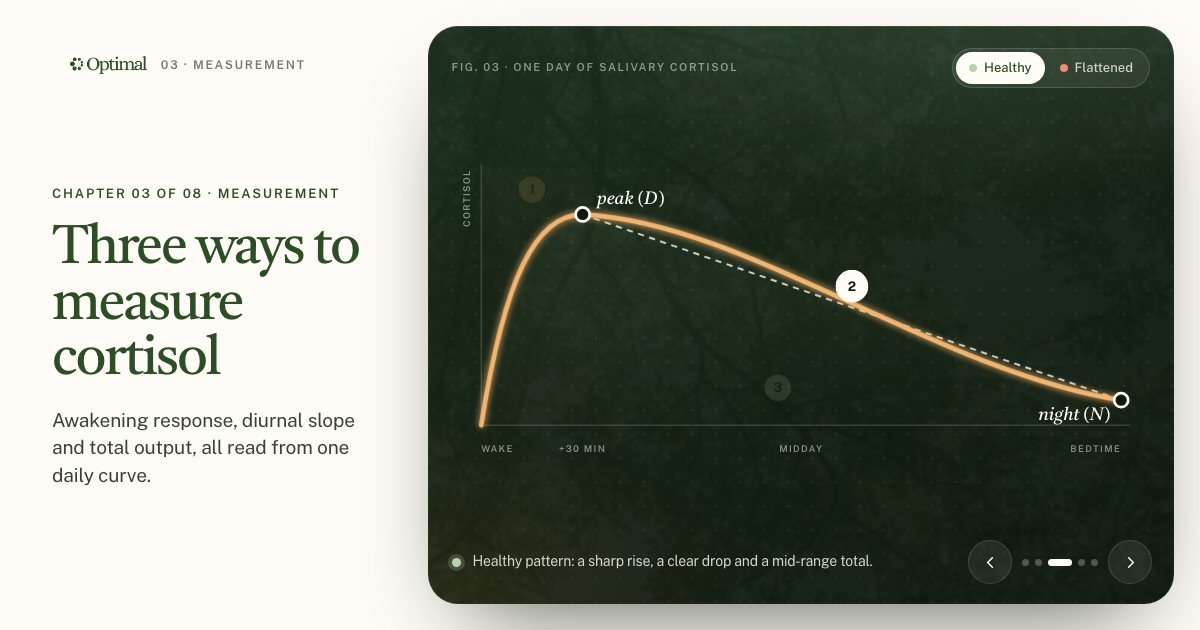
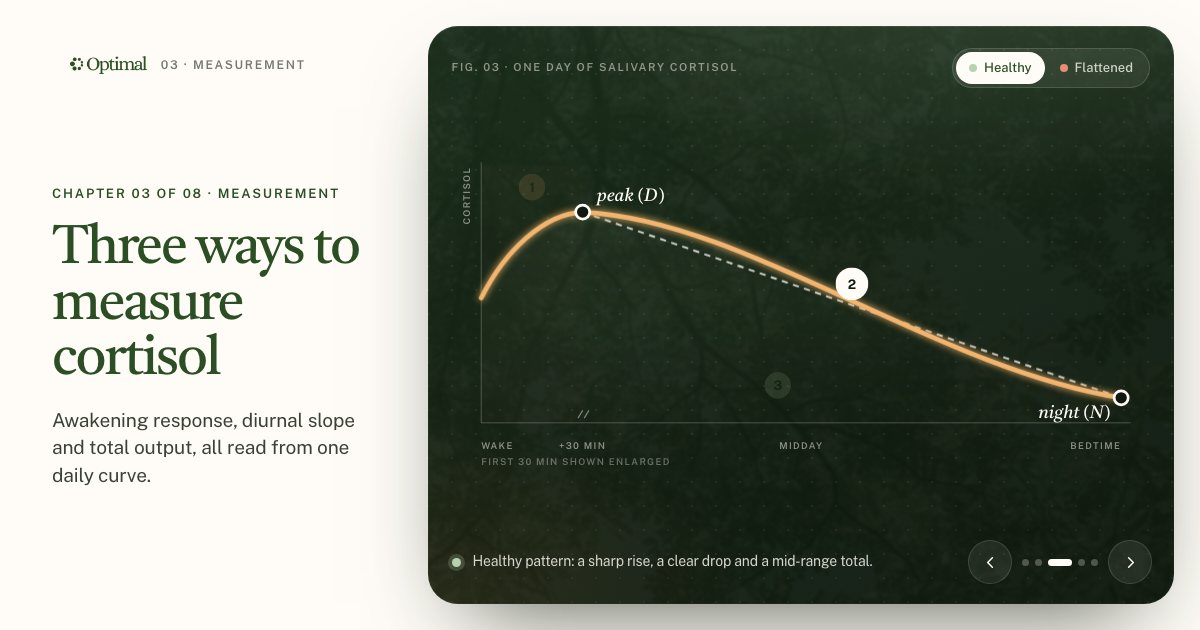
Fix clinical content errors flagged in review
- Ch01: cortisol decreases peripheral glucose uptake (was shown as an
  unqualified normal action); immune effect corrected to lymphocytes
  and eosinophils falling while neutrophils rise (was "leukocytes")
- Ch02/Ch03: daily cortisol curves now start at a realistic waking level
  and peak ~30-45 min after waking; Ch03 marks the enlarged first 30
  minutes on its axis; area fill closes along the baseline
- Ch07 note 6: insulin resistance raises free testosterone in women
  (PCOS pattern) but tends to lower testosterone in men
- Ch07 note 9: reworded away from "cortisol depletes progesterone";
  stress lowers progesterone mainly by disrupting ovulation
- Landing previews and exam-room mockup redrawn to match; glossary adds
  "lymphocytes"; OG images for ch02/ch03 regenerated
- IMAGE_PROMPTS.md: full, self-contained ChatGPT prompts per chapter

Changed region(s): [[0.37, 0.3016, 0.9558, 0.754], [0.37, 0.2714, 0.4008, 0.3619]]

diff --git a/03-measuring-cortisol.html b/03-measuring-cortisol.html
@@ -68,21 +68,23 @@
         </div>
       </div>
       <div class="stage-canvas">
-        <svg viewBox="0 0 900 410" role="img" aria-label="Daily salivary cortisol curve with the awakening response, diurnal slope and area under the curve marked.">
+        <svg viewBox="0 0 900 416" role="img" aria-label="Daily salivary cortisol curve with the awakening response, diurnal slope and area under the curve marked.">
           <defs>
             <linearGradient id="auc" x1="0" x2="0" y1="0" y2="1"><stop offset="0" stop-color="#B7D3AE" stop-opacity=".42"/><stop offset="1" stop-color="#B7D3AE" stop-opacity=".03"/></linearGradient>
             <filter id="glow" x="-20%" y="-40%" width="140%" height="180%"><feGaussianBlur stdDeviation="5" result="b"/><feMerge><feMergeNode in="b"/><feMergeNode in="SourceGraphic"/></feMerge></filter>
           </defs>
           <g class="lk" data-k="car"><rect x="40" y="20" width="130" height="330" fill="#F2B46E" opacity=".1"/><line x1="170" y1="20" x2="170" y2="350" stroke="#F2B46E" stroke-opacity=".35" stroke-dasharray="2 5"/></g>
-          <g class="fx-fade" style="--d:1.2s"><path class="lk" data-k="auc" id="aucFill" fill="url(#auc)" d="M 40 350 C 70 160, 110 80, 170 80 C 380 90, 620 280, 860 318 L 860 350 Z"/></g>
+          <g class="fx-fade" style="--d:1.2s"><path class="lk" data-k="auc" id="aucFill" fill="url(#auc)" d="M 40 190 C 70 130, 120 82, 170 80 C 380 90, 620 280, 860 318 L 860 350 L 40 350 Z"/></g>
           <line class="ax" x1="40" y1="16" x2="40" y2="350"/>
           <line class="ax" x1="40" y1="350" x2="872" y2="350"/>
           <text class="t-lab" x="26" y="22" transform="rotate(-90 26 22)" text-anchor="end">CORTISOL</text>
+          <path d="M 164 344 l 6 -10 M 172 344 l 6 -10" stroke="rgba(255,252,247,.45)" stroke-width="1.5" fill="none"/>
+          <text class="t-lab" x="40" y="404" font-size="10" fill-opacity=".7">FIRST 30 MIN SHOWN ENLARGED</text>
           <g class="t-lab"><text x="40" y="384">WAKE</text><text x="170" y="384" text-anchor="middle">+30 MIN</text><text x="450" y="384" text-anchor="middle">MIDDAY</text><text x="860" y="384" text-anchor="end">BEDTIME</text></g>
-          <path class="ghost" id="ghost" d="M 40 350 C 70 160, 110 80, 170 80 C 380 90, 620 280, 860 318" fill="none" stroke="#F2B46E" stroke-opacity=".5" stroke-width="2.5" stroke-dasharray="4 7" opacity="0"/>
+          <path class="ghost" id="ghost" d="M 40 190 C 70 130, 120 82, 170 80 C 380 90, 620 280, 860 318" fill="none" stroke="#F2B46E" stroke-opacity=".5" stroke-width="2.5" stroke-dasharray="4 7" opacity="0"/>
           <g class="fx-fade" style="--d:1.5s"><line class="lk" data-k="slope" id="slope" x1="170" y1="80" x2="860" y2="318" stroke="#FFFCF7" stroke-opacity=".8" stroke-width="2.5" stroke-dasharray="8 7"/></g>
-          <path class="draw" id="curve" pathLength="1" style="--d:.3s;--dur:1.5s" d="M 40 350 C 70 160, 110 80, 170 80 C 380 90, 620 280, 860 318" fill="none" stroke="#F2B46E" stroke-width="6" stroke-linecap="round" filter="url(#glow)"/>
-          <path class="emph" data-k="car" id="rise" d="M 40 350 C 70 160, 110 80, 170 80" fill="none" stroke="#FFD29C" stroke-width="10" stroke-linecap="round" filter="url(#glow)"/>
+          <path class="draw" id="curve" pathLength="1" style="--d:.3s;--dur:1.5s" d="M 40 190 C 70 130, 120 82, 170 80 C 380 90, 620 280, 860 318" fill="none" stroke="#F2B46E" stroke-width="6" stroke-linecap="round" filter="url(#glow)"/>
+          <path class="emph" data-k="car" id="rise" d="M 40 190 C 70 130, 120 82, 170 80" fill="none" stroke="#FFD29C" stroke-width="10" stroke-linecap="round" filter="url(#glow)"/>
           <g class="fx-fade" style="--d:1.7s">
             <g class="lk" data-k="slope">
               <circle id="dPt" cx="170" cy="80" r="9" fill="#10190F" stroke="#FFFCF7" stroke-width="3.5"/>
@@ -156,11 +158,11 @@
 <script>
 (function () {
   var P = {
-    healthy: { curve: 'M 40 350 C 70 160, 110 80, 170 80 C 380 90, 620 280, 860 318', rise: 'M 40 350 C 70 160, 110 80, 170 80',
+    healthy: { curve: 'M 40 190 C 70 130, 120 82, 170 80 C 380 90, 620 280, 860 318', rise: 'M 40 190 C 70 130, 120 82, 170 80',
                d: [170, 80], n: [860, 318], b2: [515, 172], c: '#B7D3AE',
                note: 'Healthy pattern: a sharp rise, a clear drop and a mid-range total.' },
-    flat:    { curve: 'M 40 350 C 60 250, 100 200, 170 190 C 380 196, 620 244, 860 266', rise: 'M 40 350 C 60 250, 100 200, 170 190',
-               d: [170, 190], n: [860, 266], b2: [515, 205], c: '#EE8B75',
+    flat:    { curve: 'M 40 240 C 70 232, 120 224, 170 222 C 380 226, 620 250, 860 268', rise: 'M 40 240 C 70 232, 120 224, 170 222',
+               d: [170, 222], n: [860, 268], b2: [515, 222], c: '#EE8B75',
                note: 'Flattened pattern: a blunted rise, little drop and a low total.' }
   };
   var $ = function (id) { return document.getElementById(id); };
@@ -172,7 +174,7 @@
     state = k;
     var S = P[k], dur = first || instant ? 0 : 1000;
     if (!first) { curve.classList.remove('draw'); curve.style.strokeDasharray = 'none'; }
-    HX.morph(curve, S.curve, dur); HX.morph($('rise'), S.rise, dur); HX.morph($('aucFill'), S.curve + ' L 860 350 Z', dur);
+    HX.morph(curve, S.curve, dur); HX.morph($('rise'), S.rise, dur); HX.morph($('aucFill'), S.curve + ' L 860 350 L 40 350 Z', dur);
     $('ghost').setAttribute('opacity', k === 'flat' ? '1' : '0');
     var from = JSON.parse(JSON.stringify(pos));
     HX.tween(dur, function (e) {

diff --git a/index.html b/index.html
@@ -249,10 +249,10 @@
           <svg viewBox="0 0 280 216" preserveAspectRatio="xMidYMid meet">
             <line x1="24" y1="26" x2="24" y2="172" stroke="rgba(255,252,247,.3)"/><line x1="24" y1="172" x2="256" y2="172" stroke="rgba(255,252,247,.3)"/>
             <g fill="none" stroke-width="3" stroke-linecap="round">
-              <path class="c c1 anim" pathLength="1" d="M 24 172 C 35 65.6, 52.2 38, 75.7 40 C 130.5 47.9, 193.2 132.6, 256 160.2" stroke="#B7D3AE"/>
-              <path class="c c2 anim" pathLength="1" d="M 24 172 C 31.8 85.3, 44.4 59.7, 75.7 57.7 C 138.4 55.7, 201.1 67.5, 256 81.3" stroke="#F2B46E"/>
-              <path class="c c3 anim" pathLength="1" d="M 24 172 C 28.7 136.5, 36.6 124.7, 52.2 124.7 C 122.8 124.7, 193.2 130.6, 256 138.5" stroke="#EE8B75"/>
-              <path class="c c4 anim" pathLength="1" d="M 24 172 C 36.4 163.8, 53 157.6, 75.8 156.5 C 131.7 154.5, 193.9 153.5, 256 156" stroke="#C9CDC2"/>
+              <path class="c c1 anim" pathLength="1" d="M 24 103.7 C 26.9 75.5, 29.8 51.8, 33.9 49.1 C 73.7 51.8, 140 131.9, 256 162" stroke="#B7D3AE"/>
+              <path class="c c2 anim" pathLength="1" d="M 24 85.5 C 26.9 64.6, 29.8 46.4, 33.9 44.5 C 98.6 44.5, 181.4 57.3, 256 71.1" stroke="#F2B46E"/>
+              <path class="c c3 anim" pathLength="1" d="M 24 136.5 C 26.9 128.3, 29.8 121.5, 33.9 120.1 C 98.6 120.1, 181.4 124.7, 256 131" stroke="#EE8B75"/>
+              <path class="c c4 anim" pathLength="1" d="M 24 153.8 C 26.9 152, 29.8 149.7, 33.9 149.2 C 98.6 148.3, 181.4 148.3, 256 150.2" stroke="#C9CDC2"/>
             </g>
             <g font-family="Public Sans" font-size="10" font-weight="600" letter-spacing="1.4" fill="rgba(255,252,247,.5)"><text x="24" y="194">WAKE</text><text x="256" y="194" text-anchor="end">BED</text></g>
           </svg>
@@ -267,10 +267,10 @@
           <svg viewBox="0 0 280 216" preserveAspectRatio="xMidYMid meet">
             <defs><linearGradient id="p3g" x1="0" y1="0" x2="0" y2="1"><stop offset="0" stop-color="#B7D3AE" stop-opacity=".42"/><stop offset="1" stop-color="#B7D3AE" stop-opacity=".03"/></linearGradient><clipPath id="p3c"><rect x="24" y="20" width="232" height="152"/></clipPath></defs>
             <rect x="24" y="24" width="36.8" height="148" fill="#F2B46E" opacity=".12"/>
-            <path d="M 24 172 C 32.5 77.7, 43.8 38, 60.8 38 C 120.2 43, 188.1 137.3, 256 156.1 L 256 172 Z" fill="url(#p3g)"/>
+            <path d="M 24 92.6 C 32.5 62.8, 46.6 39, 60.8 38 C 120.2 43, 188.1 137.3, 256 156.1 L 256 172 L 24 172 Z" fill="url(#p3g)"/>
             <line x1="60.8" y1="38" x2="256" y2="156.1" stroke="#FFFCF7" stroke-opacity=".75" stroke-width="2" stroke-dasharray="5 5"/>
             <line x1="24" y1="172" x2="256" y2="172" stroke="rgba(255,252,247,.3)"/>
-            <path d="M 24 172 C 32.5 77.7, 43.8 38, 60.8 38 C 120.2 43, 188.1 137.3, 256 156.1" fill="none" stroke="#F2B46E" stroke-width="3.5" stroke-linecap="round"/>
+            <path d="M 24 92.6 C 32.5 62.8, 46.6 39, 60.8 38 C 120.2 43, 188.1 137.3, 256 156.1" fill="none" stroke="#F2B46E" stroke-width="3.5" stroke-linecap="round"/>
             <g clip-path="url(#p3c)"><rect class="sweep anim" x="10" y="20" width="14" height="152" fill="#FFFCF7" opacity=".12"/></g>
             <g font-family="Public Sans" font-size="10.5" font-weight="700" fill="#10190F" text-anchor="middle">
               <circle cx="42" cy="194" r="9" fill="#F2B46E"/><text x="42" y="198">1</text>
@@ -416,10 +416,10 @@
         <div class="scr-stage">
           <svg viewBox="0 0 300 180" preserveAspectRatio="xMidYMid meet">
             <defs><linearGradient id="sg" x1="0" x2="0" y1="0" y2="1"><stop offset="0" stop-color="#B7D3AE" stop-opacity=".3"/><stop offset="1" stop-color="#B7D3AE" stop-opacity="0"/></linearGradient></defs>
-            <path d="M 14 160 C 24 90, 38 50, 60 50 C 130 54, 210 130, 288 146 L 288 160 Z" fill="url(#sg)" opacity=".35"/>
+            <path d="M 14 108 C 26 80, 40 52, 60 50 C 130 54, 210 130, 288 146 L 288 160 L 14 160 Z" fill="url(#sg)" opacity=".35"/>
             <line x1="14" y1="160" x2="290" y2="160" stroke="rgba(255,252,247,.3)"/>
             <line x1="60" y1="50" x2="288" y2="146" stroke="#FFFCF7" stroke-width="1.6" stroke-dasharray="5 4"/>
-            <path d="M 14 160 C 24 90, 38 50, 60 50 C 130 54, 210 130, 288 146" fill="none" stroke="#F2B46E" stroke-width="3" stroke-linecap="round"/>
+            <path d="M 14 108 C 26 80, 40 52, 60 50 C 130 54, 210 130, 288 146" fill="none" stroke="#F2B46E" stroke-width="3" stroke-linecap="round"/>
             <circle cx="60" cy="50" r="4.5" fill="#10190F" stroke="#FFFCF7" stroke-width="2"/><circle cx="288" cy="146" r="4.5" fill="#10190F" stroke="#FFFCF7" stroke-width="2"/>
             <circle cx="174" cy="86" r="8" fill="#FFFCF7"/><text x="174" y="90" text-anchor="middle" font-family="Public Sans" font-size="9" font-weight="700" fill="#10190F">2</text>
           </svg>

diff --git a/02-hpa-dysfunction.html b/02-hpa-dysfunction.html
@@ -92,17 +92,17 @@
           <text class="t-lab" x="34" y="36" transform="rotate(-90 34 36)" text-anchor="end">CORTISOL</text>
           <g class="t-lab"><text x="50" y="372">WAKE</text><text x="330" y="372" text-anchor="middle">MIDDAY</text><text x="610" y="372" text-anchor="end">BED</text></g>
           <g class="cur" id="cur">
-            <g class="fx-fade" style="--d:.2s"><path id="curFill" fill="url(#gFill)" d="M 50 340 C 76.5 109.7, 118.1 50, 174.9 54.2 C 307.3 71.3, 458.6 254.7, 610 314.5 L 610 340 L 50 340 Z"/></g>
-            <path class="ghost" id="ghost" d="M 50 340 C 76.5 109.7, 118.1 50, 174.9 54.2 C 307.3 71.3, 458.6 254.7, 610 314.5" fill="none" stroke="#B7D3AE" stroke-opacity=".6" stroke-width="2" stroke-dasharray="4 7" opacity="0"/>
-            <text class="ghost t-ser t-it" id="ghostLabel" x="190" y="40" font-size="19" fill="#B7D3AE" opacity="0">normal curve</text>
-            <path class="cur-line draw" id="curLine" pathLength="1" style="--d:.2s;--dur:1.4s" d="M 50 340 C 76.5 109.7, 118.1 50, 174.9 54.2 C 307.3 71.3, 458.6 254.7, 610 314.5" fill="none" stroke-width="5.5" stroke-linecap="round" filter="url(#glow)"/>
-            <g class="fx-pop" style="--d:1.3s"><circle class="end-dot" id="endDot" cx="610" cy="314.5" r="8" fill="#111D10" stroke-width="4"/></g>
+            <g class="fx-fade" style="--d:.2s"><path id="curFill" fill="url(#gFill)" d="M 50 190 C 57 128, 64 76, 74 70 C 170 76, 330 252, 610 318 L 610 340 L 50 340 Z"/></g>
+            <path class="ghost" id="ghost" d="M 50 190 C 57 128, 64 76, 74 70 C 170 76, 330 252, 610 318" fill="none" stroke="#B7D3AE" stroke-opacity=".6" stroke-width="2" stroke-dasharray="4 7" opacity="0"/>
+            <text class="ghost t-ser t-it" id="ghostLabel" x="150" y="40" font-size="19" fill="#B7D3AE" opacity="0">normal curve</text>
+            <path class="cur-line draw" id="curLine" pathLength="1" style="--d:.2s;--dur:1.4s" d="M 50 190 C 57 128, 64 76, 74 70 C 170 76, 330 252, 610 318" fill="none" stroke-width="5.5" stroke-linecap="round" filter="url(#glow)"/>
+            <g class="fx-pop" style="--d:1.3s"><circle class="end-dot" id="endDot" cx="610" cy="318" r="8" fill="#111D10" stroke-width="4"/></g>
           </g>
           <g class="overlay" id="overlay" opacity="0" fill="none" stroke-width="3.5" stroke-linecap="round" filter="url(#glow)">
-            <path d="M 50 340 C 76.5 109.7, 118.1 50, 174.9 54.2 C 307.3 71.3, 458.6 254.7, 610 314.5" stroke="#B7D3AE"/>
-            <path d="M 50 340 C 68.9 152.4, 99.2 96.9, 174.9 92.6 C 326.2 88.4, 477.6 113.9, 610 143.8" stroke="#F2B46E"/>
-            <path d="M 50 340 C 61.4 263.3, 80.3 237.6, 118.1 237.6 C 288.4 237.6, 458.6 250.4, 610 267.5" stroke="#EE8B75"/>
-            <path d="M 50 340 C 80 322.2, 120 308.8, 175 306.5 C 310 302.1, 460 299.8, 610 305.4" stroke="#C9CDC2"/>
+            <path d="M 50 190 C 57 128, 64 76, 74 70 C 170 76, 330 252, 610 318" stroke="#B7D3AE"/>
+            <path d="M 50 150 C 57 104, 64 64, 74 60 C 230 60, 430 88, 610 118" stroke="#F2B46E"/>
+            <path d="M 50 262 C 57 244, 64 229, 74 226 C 230 226, 430 236, 610 250" stroke="#EE8B75"/>
+            <path d="M 50 300 C 57 296, 64 291, 74 290 C 230 288, 430 288, 610 292" stroke="#C9CDC2"/>
           </g>
         </svg>
       </div>
@@ -177,10 +177,10 @@
 <script>
 (function () {
   var S = [
-    { name: 'Normal', c: '#B7D3AE', d: 'M 50 340 C 76.5 109.7, 118.1 50, 174.9 54.2 C 307.3 71.3, 458.6 254.7, 610 314.5', end: 314.5 },
-    { name: 'Acute', c: '#F2B46E', d: 'M 50 340 C 68.9 152.4, 99.2 96.9, 174.9 92.6 C 326.2 88.4, 477.6 113.9, 610 143.8', end: 143.8 },
-    { name: 'Chronic', c: '#EE8B75', d: 'M 50 340 C 61.4 263.3, 80.3 237.6, 118.1 237.6 C 288.4 237.6, 458.6 250.4, 610 267.5', end: 267.5 },
-    { name: 'Exhaustion', c: '#C9CDC2', d: 'M 50 340 C 80 322.2, 120 308.8, 175 306.5 C 310 302.1, 460 299.8, 610 305.4', end: 305.4 }
+    { name: 'Normal', c: '#B7D3AE', d: 'M 50 190 C 57 128, 64 76, 74 70 C 170 76, 330 252, 610 318', end: 318 },
+    { name: 'Acute', c: '#F2B46E', d: 'M 50 150 C 57 104, 64 64, 74 60 C 230 60, 430 88, 610 118', end: 118 },
+    { name: 'Chronic', c: '#EE8B75', d: 'M 50 262 C 57 244, 64 229, 74 226 C 230 226, 430 236, 610 250', end: 250 },
+    { name: 'Exhaustion', c: '#C9CDC2', d: 'M 50 300 C 57 296, 64 291, 74 290 C 230 288, 430 288, 610 292', end: 292 }
   ];
   var $ = function (id) { return document.getElementById(id); };
   var stage = $('stage'), line = $('curLine'), fill = $('curFill'), dot = $('endDot');

diff --git a/07-sleep-hormone-web.html b/07-sleep-hormone-web.html
@@ -185,7 +185,7 @@
       <h2>Insulin resistance</h2>
       <div class="notes-l">
         <div class="note" data-t="e5" data-k="e5"><div class="note-h"><span class="n">5</span>Insulin resistance ↔ Cortisol</div><p>More insulin raises ACTH and cortisol and disables the off switch. Cortisol impairs glucose uptake and β-cell insulin release.</p></div>
-        <div class="note" data-t="e6" data-k="e6"><div class="note-h"><span class="n">6</span>Insulin resistance → Testosterone</div><p>Raises GnRH and LH, lowers SHBG: more free testosterone, acne.</p></div>
+        <div class="note" data-t="e6" data-k="e6"><div class="note-h"><span class="n">6</span>Insulin resistance → Testosterone</div><p>In women, it raises GnRH and LH and lowers SHBG: more free testosterone and acne (the PCOS pattern). In men, insulin resistance tends to lower testosterone instead.</p></div>
         <div class="note" data-t="e7" data-k="e7"><div class="note-h"><span class="n">7</span>Insulin resistance → Estrogen</div><p>Visceral fat increases aromatase, which raises estrogen.</p></div>
       </div>
     </div></article>
@@ -195,7 +195,7 @@
       <h2>Cortisol and the sex hormones</h2>
       <div class="notes-l">
         <div class="note" data-t="e8" data-k="e8"><div class="note-h"><span class="n">8</span>Testosterone ↔ Cortisol</div><p>Testosterone lowers cortisol. Chronically high cortisol lowers testosterone.</p></div>
-        <div class="note" data-t="e9" data-k="e9"><div class="note-h"><span class="n">9</span>Cortisol → Progesterone</div><p>Chronic cortisol depletes allopregnanolone and progesterone: anxiety, poorer sleep.</p></div>
+        <div class="note" data-t="e9" data-k="e9"><div class="note-h"><span class="n">9</span>Cortisol → Progesterone</div><p>Chronic stress and high cortisol can lower progesterone, mainly by disrupting ovulation, and with it allopregnanolone: anxiety, poorer sleep.</p></div>
         <div class="note" data-t="e10" data-k="e10"><div class="note-h"><span class="n">10</span>Estrogen ↔ Cortisol</div><p>Estrogen raises cortisol and CRH and impairs the off switch.</p></div>
       </div>
     </div></article>

diff --git a/assets/js/glossary.js b/assets/js/glossary.js
@@ -29,7 +29,7 @@ window.HX_GLOSSARY = [
   ['catabolism', 'Breaking tissue down for fuel.'],
   ['cytokines', 'Signalling molecules used by the immune system; some switch on inflammation.'],
   ['IL-1, IL-6, TNF', 'Inflammatory cytokines: signals the immune system uses to switch on inflammation.'],
-  ['leukocytes', 'White blood cells.'],
+  ['lymphocytes', 'White blood cells that coordinate immune responses, including T cells and B cells.'],
   ['eosinophils', 'A type of white blood cell involved in allergy and inflammation.'],
   ['neutrophils', 'The most common white blood cell, a first responder to infection.'],
   ['Vasodilation', 'Widening of the blood vessels.'],

diff --git a/01-dose-response.html b/01-dose-response.html
@@ -145,10 +145,10 @@
       <h2>Just right: normal actions</h2>
       <ul>
         <li>Gluconeogenesis and glycogenesis</li>
-        <li>Protein and fat catabolism; peripheral glucose uptake</li>
+        <li>Protein and fat catabolism; ↓ peripheral glucose uptake</li>
         <li>Vascular tone; Na⁺ / K⁺ balance</li>
         <li>Suppresses inflammation (IL-1, IL-6, TNF)</li>
-        <li>Modulates immune cells: ↓ leukocytes and eosinophils, ↑ neutrophils</li>
+        <li>Modulates immune cells: ↓ lymphocytes and eosinophils, ↑ neutrophils</li>
         <li>Cognition, memory, mood, circadian rhythm</li>
       </ul>
     </div></article>

diff --git a/IMAGE_PROMPTS.md b/IMAGE_PROMPTS.md
@@ -9,42 +9,73 @@ Until a cover is added, the site keeps its current design (text header, canopy p
 
 ## How to add one
 
-1. Generate the image (prompts below). Keep **3:2, at least 2400 × 1600**, and save it as a JPEG.
-2. Save it as `assets/img/chapters/01.jpg` … `08.jpg`.
+1. Paste a prompt below into ChatGPT (or another image tool) and ask for a **landscape 3:2** image. ChatGPT's 1536 × 1024 output is fine; larger is better.
+2. Save the image as a JPEG named `assets/img/chapters/01.jpg` … `08.jpg`.
 3. Switch it on in `assets/js/site.js` under `COVERS`:
    ```js
    var COVERS = {
      1: 'assets/img/chapters/01.jpg',
-     5: 'assets/img/chapters/05.jpg',
+     2: 'assets/img/chapters/02.jpg',
+     // …
    };
    ```
 4. Commit and push. Ideally add all eight at once so the chapters stay consistent.
 
-## House style (paste this before every prompt)
+## Prompts
 
-> Editorial nature photograph for a premium health clinic. Soft, natural early-morning light, muted forest-green and warm cream palette, gentle film grain, shallow depth of field, calm and uncluttered, generous negative space on the left third. No people, no text, no logos, no medical equipment. Photorealistic, 3:2 landscape, high resolution.
+Each prompt is self-contained: paste it as is.
 
-## Prompts, one metaphor per chapter
+### Chapter 01 · Cortisol has a dose-dependent effect: balance, the middle band
 
-| # | Chapter | Metaphor | Prompt (after the house style) |
-|---|---------|----------|--------------------------------|
-| 01 | Cortisol has a dose-dependent effect | Balance, the middle band | A single smooth river stone balanced perfectly on top of a larger flat stone, resting on soft moss beside a still forest stream. |
-| 02 | How HPA dysfunction evolves | Gradual depletion | Four leaves of the same plant laid in a row on linen, from vivid green through yellowing to dry and brown, soft top-down light. |
-| 03 | Three ways to measure cortisol | The shape of a day | A stone sundial in a quiet garden at sunrise, its long morning shadow stretching across dewy grass. |
-| 04 | Cortisol's partners | Counterbalance | A weathered wooden see-saw in an empty park at dusk, one end raised, warm golden light fading to blue. |
-| 05 | Foundational vs. top-line hormones | Roots and canopy | A large old oak tree photographed from a low angle, its thick exposed roots gripping mossy forest ground, canopy glowing in soft light. |
-| 06 | The hormone cycle and its stop points | A loop you can step out of | A circular stone labyrinth path in a garden, seen from slightly above, morning mist, one clear opening in the ring. |
-| 07 | Sleep, cortisol and the hormone web | Connection | A spider web covered in morning dew, backlit against a dark green out-of-focus forest, each strand catching the light. |
-| 08 | The pyramid of interventions | Build from the base | A cairn of flat stacked stones on a misty shoreline, the widest stones at the base and the smallest at the top. |
+```
+Editorial nature photograph for a premium health clinic website. A single smooth, rounded river stone balanced perfectly on top of a larger flat stone, resting on soft green moss beside a still, clear forest stream. Soft natural early-morning light, muted forest-green and warm cream colour palette, gentle film grain, shallow depth of field. Calm, minimal composition: the stones sit in the right third of the frame, with generous quiet space on the left third. No people, no text, no logos, no medical equipment. Photorealistic, landscape 3:2 aspect ratio, high resolution.
+```
 
-### Tips
+### Chapter 02 · How HPA dysfunction evolves: gradual depletion
+
+```
+Editorial still-life photograph for a premium health clinic website. Four leaves from the same plant laid in a neat horizontal row on natural cream linen, progressing from left to right: vivid fresh green, lighter green, yellowing, and finally dry and brown. Soft diffused top-down natural light, muted forest-green and warm cream colour palette, gentle film grain, subtle linen texture. Calm, minimal composition with the row of leaves across the lower-right of the frame and generous quiet space above and on the left. No people, no text, no logos, no medical equipment. Photorealistic, landscape 3:2 aspect ratio, high resolution.
+```
+
+### Chapter 03 · Three ways to measure cortisol: the shape of a day
+
+```
+Editorial nature photograph for a premium health clinic website. A weathered stone sundial in a quiet garden at sunrise, its long morning shadow stretching across dewy grass, low golden sunlight raking across the scene. Muted forest-green and warm cream colour palette with soft golden highlights, gentle film grain, shallow depth of field. Calm, minimal composition: the sundial sits in the right third of the frame, with generous quiet space on the left third. No people, no text, no numerals or readable markings, no logos. Photorealistic, landscape 3:2 aspect ratio, high resolution.
+```
+
+### Chapter 04 · Cortisol's partners: counterbalance
+
+```
+Editorial photograph for a premium health clinic website. A simple weathered wooden see-saw in an empty park at dusk, one end resting on the grass and the other raised, framed by soft trees. Warm golden light fading into a calm blue evening sky, muted forest-green and warm cream colour palette, gentle film grain, shallow depth of field. Calm, minimal composition: the see-saw sits in the right half of the frame, with generous quiet space on the left third. No people, no text, no logos, no playground clutter. Photorealistic, landscape 3:2 aspect ratio, high resolution.
+```
+
+### Chapter 05 · Foundational vs. top-line hormones: roots and canopy
+
+```
+Editorial nature photograph for a premium health clinic website. A large, old oak tree photographed from a low angle, its thick exposed roots gripping mossy forest ground in the foreground and its full canopy glowing in soft light above. Soft natural early-morning light filtering through the leaves, muted forest-green and warm cream colour palette, gentle film grain, shallow depth of field. Calm composition: the trunk and roots sit in the right third of the frame, with generous quiet space on the left third. No people, no text, no logos. Photorealistic, landscape 3:2 aspect ratio, high resolution.
+```
+
+### Chapter 06 · The hormone cycle and its stop points: a loop you can step out of
+
+```
+Editorial nature photograph for a premium health clinic website. A circular stone labyrinth path set into a quiet garden lawn, seen from slightly above, with light morning mist and one clear opening in the outer ring. Soft natural early-morning light, muted forest-green and warm cream colour palette, gentle film grain. Calm, minimal composition: the labyrinth sits in the right half of the frame, with generous quiet space on the left third. No people, no text, no logos. Photorealistic, landscape 3:2 aspect ratio, high resolution.
+```
+
+### Chapter 07 · Sleep, cortisol and the hormone web: connection
+
+```
+Editorial nature photograph for a premium health clinic website. A delicate spider web covered in tiny morning dew drops, backlit by soft early sunlight against a dark, out-of-focus deep green forest background, every strand catching the light. Muted forest-green and warm cream colour palette, gentle film grain, very shallow depth of field. Calm, minimal composition: the web sits in the right half of the frame, with generous dark quiet space on the left third. No spider visible, no people, no text, no logos. Photorealistic, landscape 3:2 aspect ratio, high resolution.
+```
+
+### Chapter 08 · The pyramid of interventions: build from the base
+
+```
+Editorial nature photograph for a premium health clinic website. A carefully balanced cairn of flat, smooth stones on a quiet misty shoreline, the widest and heaviest stones at the base and progressively smaller stones toward the top. Soft natural early-morning light, muted forest-green, stone-grey and warm cream colour palette, gentle film grain, shallow depth of field. Calm, minimal composition: the cairn sits in the right third of the frame, with generous quiet space on the left third. No people, no text, no logos. Photorealistic, landscape 3:2 aspect ratio, high resolution.
+```
+
+## Tips
 
 - Generate 3–4 options per chapter and pick the calmest one. Busy images fight the text overlay on the "Up next" card.
-- Keep the subject on the **right half**. The "Up next" card darkens the left side for its text.
-- Avoid clinical imagery (pills, syringes, test tubes, anatomy). It dates quickly, and AI tools often draw it inaccurately.
-- Check hands, text and physics in every result. Nature scenes avoid most of these failure modes.
-
-## Optional extras
-
-- **Present-mode welcome slide**: one wide (16:9) calm canopy or forest-light image for a "Welcome" screen before chapter 01. The patient decks already use `leaves-overhead.jpg` for this.
-- **Social preview cards**: already generated automatically in `assets/og/` from each chapter's diagram. They don't need photographs.
+- Keep the subject on the **right**. The "Up next" card darkens the left side for its text.
+- For consistency, generate all eight in one ChatGPT conversation and ask it to "keep the same photographic style and colour grading as the previous images".
+- Check every result for odd physics (floating stones, broken web strands), stray text or watermarks before using it.
